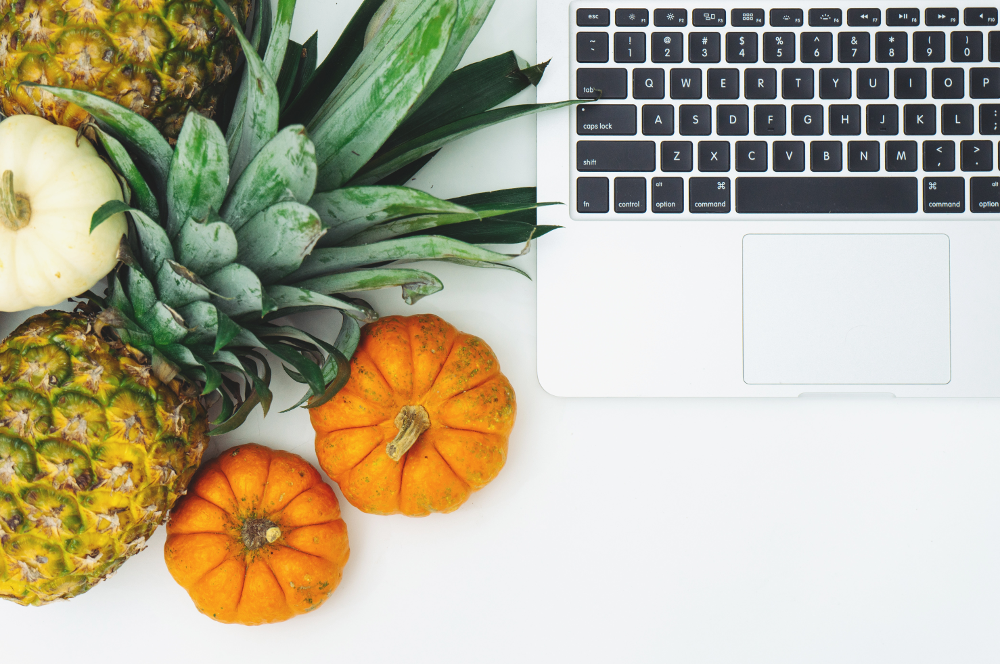
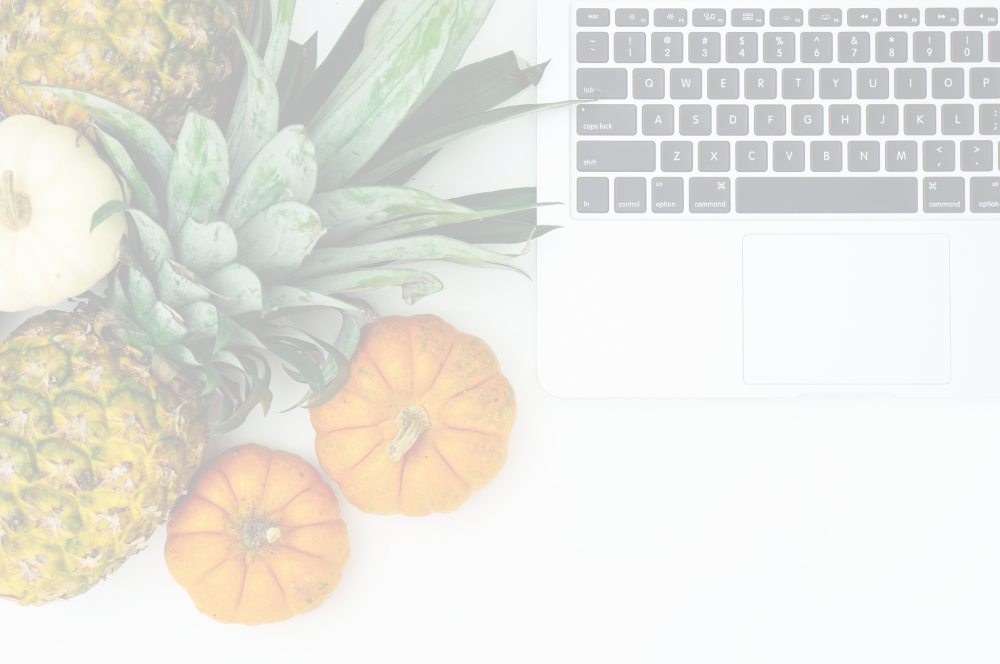
Changes in form style

diff --git a/wersja-pierwotna/fitness.css b/wersja-pierwotna/fitness.css
@@ -32,6 +32,7 @@ nav > ul{
 }
 
 main{
+  border: 1px solid black;
   margin-top: 20px;
 }
 
@@ -39,75 +40,65 @@ main{
 
 
 /*FORM CSS*/
-
-
 .form{
-  width: auto;
+  border: 1px solid black;
+  width: 1000px;
+  margin: 0 auto;
   color: black;
   font-family: 'Lato', sans-serif;
   display: grid;
-  grid-template: repeat(7, 1fr) / repeat(3, 1fr);
-  margin: 0 auto;
+  grid-template: repeat(20, 1fr) / repeat(10, 1fr);
+  border: 3px solid rgb(48, 45, 45);
+  max-height: 664px;
+ 
+  
 }
-
-.form img{
-  grid-area: 1/1/8/3;
-  max-width: 900px;
-  height: 100%;
-  margin: 0 auto;
-  padding: 0px;
-  margin-right: 15px;
+.form-background-mobile-screen{
+  display: none;
+}
+.form-background-full-screen {
+  width: 1000px;
+  height: 0 auto;
+  grid-area: 1 /1 / 21/ 10;
   
 }
 
-
 .form-title{
   text-align: center;
-  font-size: 18px;
-  grid-area: 1/3/3/4; 
+  font-size: 25px;
+  grid-area: 8/6/11/11; 
 
 }
 
 .form-name{
   font-size: 20px;
-  grid-area:  3/3/4/4;  
-  justify-self: center;
-  align-self: end;
-
+  grid-area: 14/7/16/10; 
+  justify-self: center; 
 }
-
-.form-name > input{
+.form-name input{
   text-align: center;
-  margin: 0 auto;
-  height: 35px;
 }
 
 .form-email{
   font-size: 20px;
-  grid-area:  4/3/5/4;  
-  justify-self: center;
-  align-self: end;
-  
+  grid-area: 16/7/18/10; 
+  justify-self: center; 
 }
 
-.form-email > input{
+.form-email input{
   text-align: center;
-  margin: 0 auto;
-  height: 35px;
 }
-
 .form-info{
-  grid-area:  7/3/8/4;  
+  grid-area: 20/1/21/4; 
   font-size: 14px;
   margin-left: 5px;
-  justify-self: center;
 }
   .form-info p{
     margin: 5px;
   }
 
 .form-button{
-  grid-area:  6/3/7/4;  
+  grid-area: 18/7/20/10;
   text-transform: uppercase;
   color: white;
   background-color: #00cfbf;
@@ -116,10 +107,8 @@ main{
   font-size: 150%;
   font-weight: bold;
   padding: 20px;
-  margin-left: 20px;
-  margin-right: 20px;
   border-radius: 25px;
-  
+ 
 }
 
 
@@ -129,24 +118,20 @@ main{
 }
 
 
-
-
-
-
     /*SMALL SCREEN */
     
     @media (max-width: 900px){
     
   
       .form{
-        
+        border: 1px solid black;
         width: auto;
         margin: 0 auto;
         color: black;
         font-family: 'Lato', sans-serif;
         display: grid;
         grid-template: repeat(8, 1fr) / repeat(1, 1fr);
-        
+        border: 3px solid rgb(48, 45, 45);
         margin: 0 auto;
         
        
@@ -157,8 +142,16 @@ main{
         height: 100%;
         margin: 0 auto;
         padding: 0px;
-        display: none;
       }
+
+      .form-background-mobile-screen{
+        display: grid;
+        width: auto;
+        height: 0 auto;
+        grid-area: 1 /1 / 9/ 2;
+        margin: 0 auto;
+      }
+
 
 
       .form-background-full-screen {
@@ -167,13 +160,13 @@ main{
       
       .form-title{
         text-align: center;
-        font-size: 18px;
+        font-size: 22px;
         grid-area: 1/1/3/2; 
       
       }
       
       .form-name{
-        font-size: 18px;
+        font-size: 20px;
         grid-area: 3/1/4/2;  
         justify-self: center;
      
@@ -185,7 +178,7 @@ main{
       }
 
       .form-email{
-        font-size: 18px;
+        font-size: 20px;
         grid-area: 4/1/5/2;
         justify-self: center;
       }

diff --git a/wersja-pierwotna/fitness.html b/wersja-pierwotna/fitness.html
@@ -45,12 +45,10 @@
     </div>
 
   </main>
-
-
   //START KASIA               
     <form class="form" action ="#" method="post">
-      
-      <img src="background.jpg" class="form-background"> 
+      <img src="template.png" class="form-background-full-screen">
+      <img src="template-phone.png" class="form-background-mobile-screen"> 
 
 
       <div class="form-title">
@@ -63,7 +61,7 @@
       </div>
 
       <div class="form-email"> 
-            <input type="email" id="email" name="email" placeholder="E-mail" required>          
+            <input type="email" id="email" name="email" placeholder="e-mail" required>          
       </div>
       
       <button class="form-button" > SUBMIT </button>
